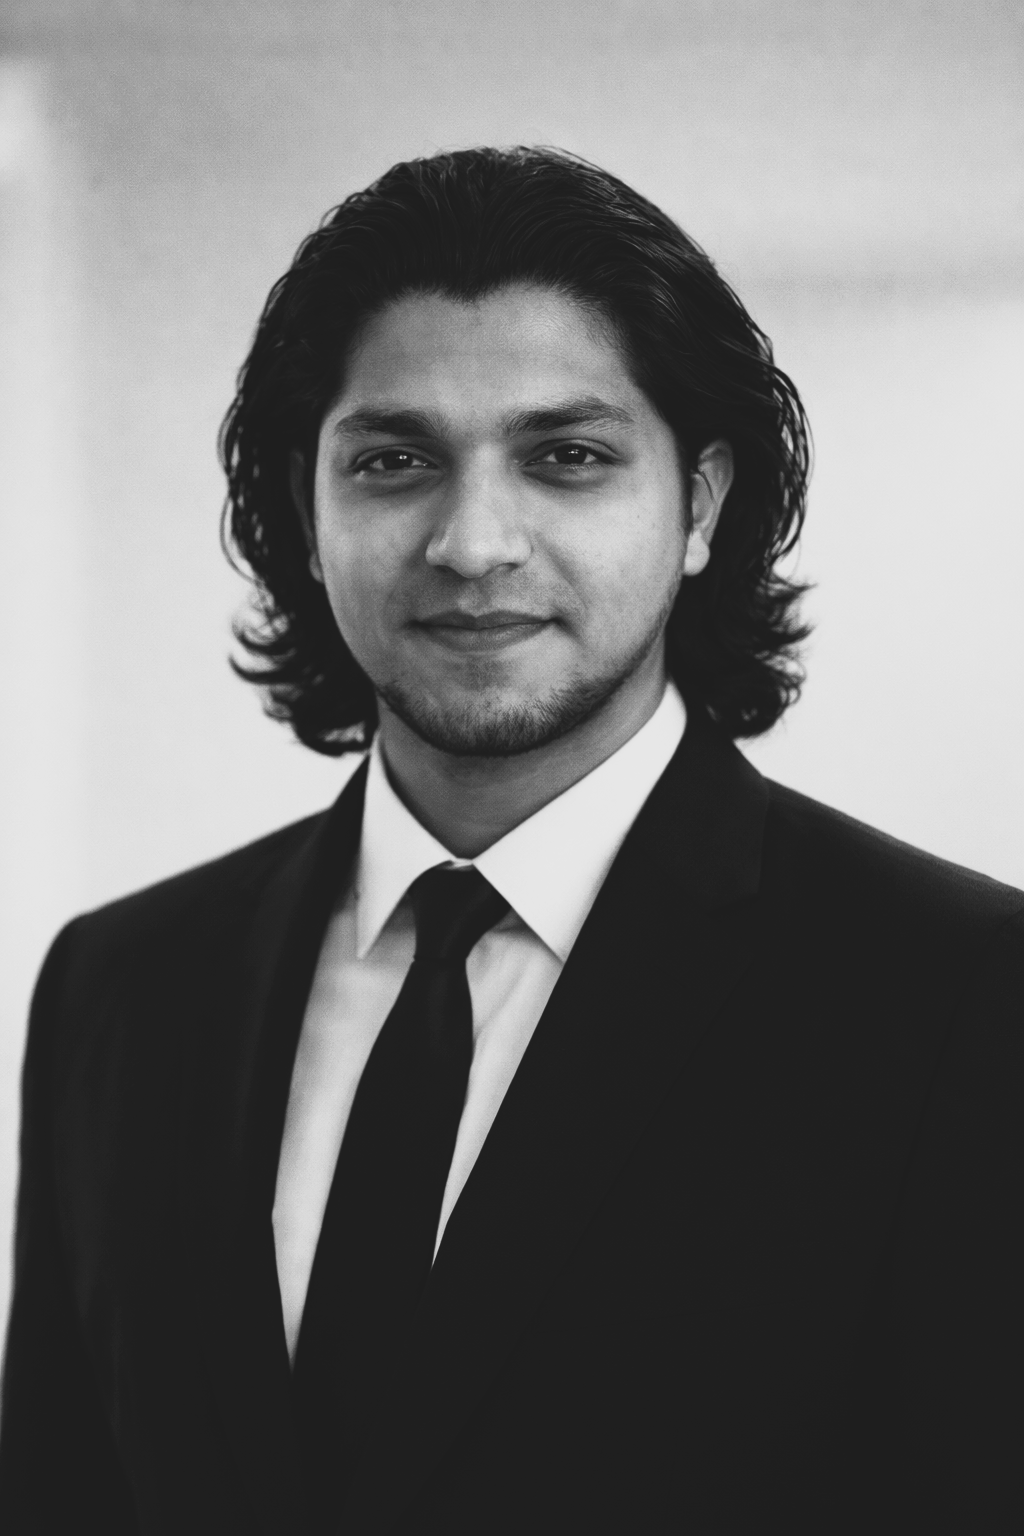
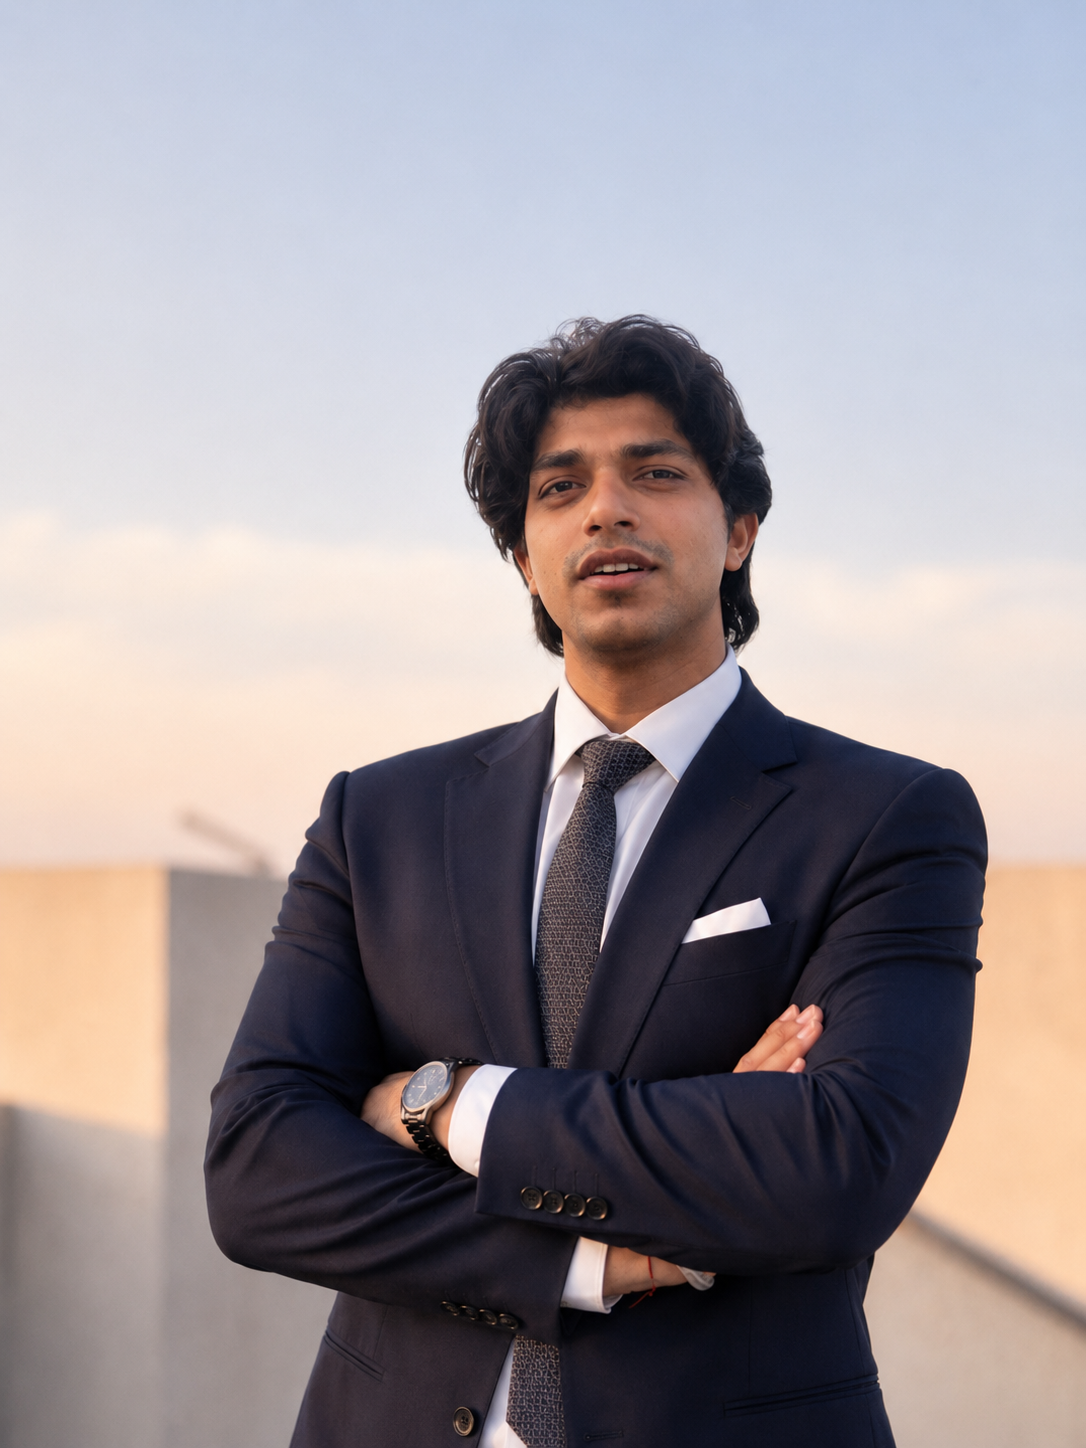
today first

diff --git a/src/components/ui/Navbar.tsx b/src/components/ui/Navbar.tsx
@@ -73,14 +73,14 @@ export default function Navbar() {
       >
         {/* Logo / Name */}
         <a
-          href="#"
+          href="/"
           onClick={(e) => {
             e.preventDefault();
             window.scrollTo({ top: 0, behavior: "smooth" });
           }}
           className="mr-3 px-3 py-1 font-[Syne] font-bold text-sm text-white tracking-tight hover:text-indigo-400 transition-colors"
         >
-          Danish<span className="text-indigo-400">.</span>
+          D<span className="text-indigo-400">K</span>
         </a>
 
         {/* Divider */}
